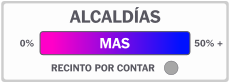
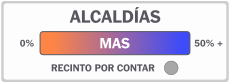
better colormap

Changed region(s): [[0.1522, 0.3855, 0.8217, 0.6506]]

diff --git a/scripts/map.py b/scripts/map.py
@@ -54,7 +54,8 @@ def draw_map(candidatura, map_name):
     pendiente = df[df[validos].isna()]
     df = df.dropna()
 
-    cmap = colors.ListedColormap(cm.get_cmap('gist_rainbow_r')(np.linspace(0,.25,256)))
+    # cmap = colors.ListedColormap(cm.get_cmap('gist_rainbow_r')(np.linspace(0,.25,256)))
+    cmap = colors.LinearSegmentedColormap.from_list('mas', ['#ff8546', '#3e4bf8'], N=256)
 
     df[validos] = df[validos].astype(int)
     df = df[df[validos] > 0]
